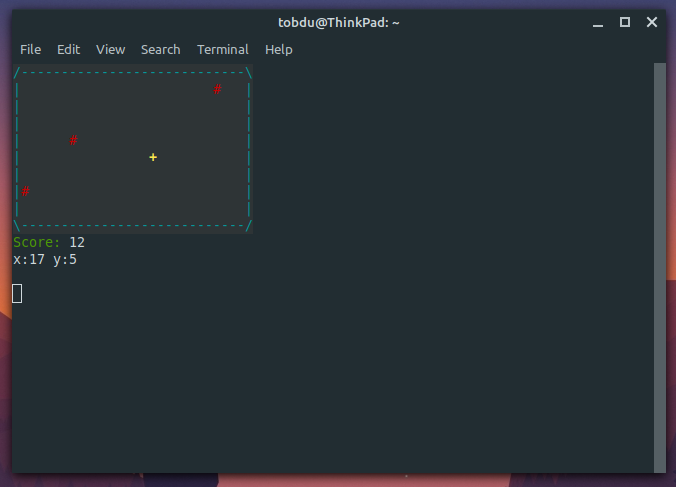
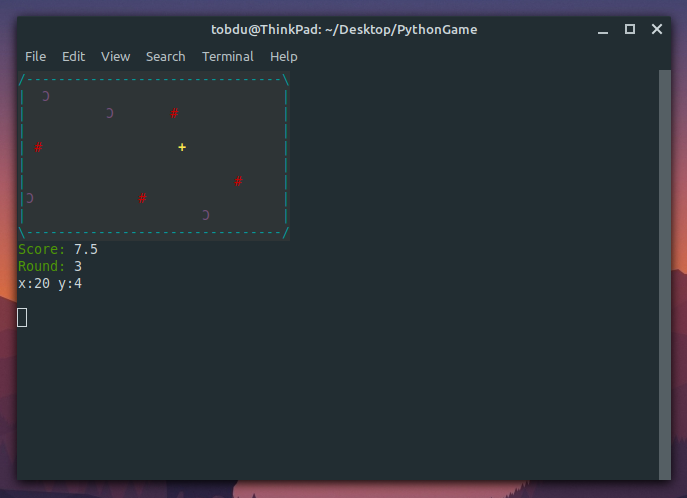
Initial Release

diff --git a/enemy.py b/enemy.py
@@ -5,39 +5,45 @@ enemies = []
 
 class Enemy:
     def __init__(self):
-        self.x_pos = 1 if gs.random.random() < 0.5 else len(gs.gameboard[0])-2
+        # self.x_pos = 1 if gs.random.random() < 0.5 else len(gs.gameboard[0])-2
+        self.x_pos = gs.random.randint(1, len(gs.gameboard[0])-2)
+
         self.y_pos = gs.random.randint(1, len(gs.gameboard)-2)
-        self.character = "C" if self.x_pos == 1 else "Ɔ"
+        self.character = gs.ENEMY_CHARACTER[0] if self.x_pos == 1 else gs.ENEMY_CHARACTER[1]
         self.direction = 1 if self.x_pos == 1 else -1
-        
+
     def move(self):
         if self.x_pos == 1 and self.direction == -1:
-            self.character = "C"
+            self.character = gs.ENEMY_CHARACTER[0]
             self.direction = 1
         if self.x_pos == len(gs.gameboard[0])-2 and self.direction == 1:
-            self.character = "Ɔ"
+            self.character = gs.ENEMY_CHARACTER[1]
             self.direction = -1
-        
         self.x_pos += self.direction
-    
+
 def generate_enemies(amount):
     if len(enemies) == 0:
         for _ in range(0, amount):
             positions = []
             for y in enemies:
                 positions.append(y.y_pos)
-            
+
             if not _ >= len(gs.gameboard)-2:
                 while True:
                     enemy = Enemy()
-                    if enemy.y_pos not in positions and enemy.y_pos != player.player.y_pos:
+                    if enemy.y_pos not in positions:
                         enemies.append(enemy)
                         break
 
-def update():
+def increase_speed():
+    if gs.ROUND % 5 == 0:
+        if gs.REFRESH_RATE > 0.06:
+            gs.REFRESH_RATE -= 0.05
+
+def update():            
     while gs.GAME:
         for enemy in enemies:
             enemy.move()
-        
+
         player.player.show_game()
-        gs.time.sleep(0.5)
+        gs.time.sleep(gs.REFRESH_RATE)

diff --git a/player.py b/player.py
@@ -2,7 +2,7 @@ import settings as gs
 import food
 import enemy
 
-class Player:
+class Player:    
     def __init__(self, x, y, player_character):
         self.x_pos = gs.math.ceil(x)     #! } The position must be an integer
         self.y_pos = gs.math.ceil(y)     #! }
@@ -12,11 +12,11 @@ class Player:
         self.map_width = len(self.gameboard[0]) # Get the map's width by the first element in the gameboard list
         self.map_height = len(self.gameboard)
 
-    def show_game(self):
+    def show_game(self):        
         gs.clear()
         
         food.generate_food(gs.FOOD_AMOUNT)
-        enemy.generate_enemies(3)
+        enemy.generate_enemies(gs.ENEMY_AMOUNT)
 
         for i in range(0, self.map_height):
             line = ""
@@ -33,11 +33,14 @@ class Player:
                             map_piece = gs.food_color + food_obj.character + gs.reset + gs.bg_color + gs.border_color                               
 
                 # Enemy
-                for enemy_obj in enemy.enemies:                  
+                for enemy_obj in enemy.enemies:
                     if j == enemy_obj.x_pos and i == enemy_obj.y_pos:
                         if self.x_pos == enemy_obj.x_pos and self.y_pos == enemy_obj.y_pos:
+                            
+                            #! TODO: Game ending
                             enemy.enemies.remove(enemy_obj)
-                            # TODO: health system
+                            gs.end_game()
+                            
                         else:
                             map_piece = gs.enemy_color + enemy_obj.character + gs.reset + gs.bg_color + gs.border_color
 

diff --git a/settings.py b/settings.py
@@ -9,12 +9,14 @@ import time
 # Varibales:
 PLAYER_CHARACTER = "+"
 FOOD_CHARACTER = "#"
-FOOD_AMOUNT = 3
-ENEMY_AMOUNT = 3
+ENEMY_CHARACTER = ["C", "Ɔ"]
+FOOD_AMOUNT = 5
+ENEMY_AMOUNT = 4
 SCORE = 0
 ROUND = 0
 
 GAME = True
+REFRESH_RATE = 0.5
 
 yellow = "\u001b[33m"
 green = "\u001b[32m"
@@ -35,20 +37,27 @@ enemy_color = magenta
 food_color = red
 
 # Gameboard
-gameboard = ["/----------------------------\\",
-            "|                            |",
-            "|                            |",
-            "|                            |",
-            "|                            |",
-            "|                            |",
-            "|                            |",
-            "|                            |",
-            "|                            |",
-            "\\----------------------------/",
+gameboard = ["/--------------------------------\\",
+            "|                                |",
+            "|                                |",
+            "|                                |",
+            "|                                |",
+            "|                                |",
+            "|                                |",
+            "|                                |",
+            "|                                |",
+            "\\--------------------------------/",
             ]
 
 # Functions
 clear = lambda: os.system("clear" if os.name!='nt' else "cls")
+
+def end_game():
+    global GAME
+    GAME = False
+    
+    clear()
+    exit()
 
 #! Don't change the code below this line
 if __name__ == '__main__':

diff --git a/main.py b/main.py
@@ -4,17 +4,18 @@ import food
 from player import player
 import enemy
 
-gs.PLAYER_CHARACTER = "+"
+gs.PLAYER_CHARACTER   = "+"
 gs.OBSTACLE_CHARACTER = "#"
-gs.FOOD_AMOUNT = 5
+gs.ENEMY_CHARACTER    = ["C", "Ɔ"]
+gs.FOOD_AMOUNT        = 5
+gs.ENEMY_AMOUNT       = 4
 
-# Advanced
 gs.SCORE = 0
 gs.ROUND = 0
 
 # The game starts only if this file is executed
+listener = gs.Listener(on_press=controls.on_press, on_release=controls.on_release)
 if __name__ == '__main__':
     player.show_game()
-    with gs.Listener(on_press=controls.on_press, on_release=controls.on_release) as listener:
-        gs.threading.Thread(target = enemy.update).start()
-        listener.join()
+    listener.start()
+    gs.threading.Thread(target = enemy.update).start()

diff --git a/controls.py b/controls.py
@@ -1,7 +1,7 @@
 if __name__ == '__main__':
     exit()
 #? ^ Had to move that piece of code from the bottom of this file up here
-#?   due to an import error which occurs when the user tries to run this file
+#?   due to an import error which occures when the user tries to run this file
 #! Don't change the code above this line
 
 import settings as gs
@@ -22,6 +22,4 @@ def on_press(key):
 
 def on_release(key):
     if key == gs.Key.esc:
-        gs.clear()
-        gs.GAME = False
-        return False
+        gs.end_game()

diff --git a/food.py b/food.py
@@ -1,4 +1,5 @@
 import settings as gs
+import enemy
 import player
 
 foods = []
@@ -13,6 +14,7 @@ class Food:
 def generate_food(amount):    
     if len(foods) == 0:
         gs.ROUND += 1
+        enemy.increase_speed()
         
         for _ in range(0, amount):
             positions = []

diff --git a/README.md b/README.md
@@ -1,11 +1,9 @@
 # PythonGame
 
-Designed for Linux!
-
 __GUIDE__
 - Move around using arrow keys
 - Eat as much food (#) as you can
-- Play as long as you like! (may be changed in future updates)
+- Don't touch the enemy (C, Ɔ) or the game will end!
 
 - Start the game by executing 'main.py' file
 - Close the game by pressing ESC or Ctrl+C
